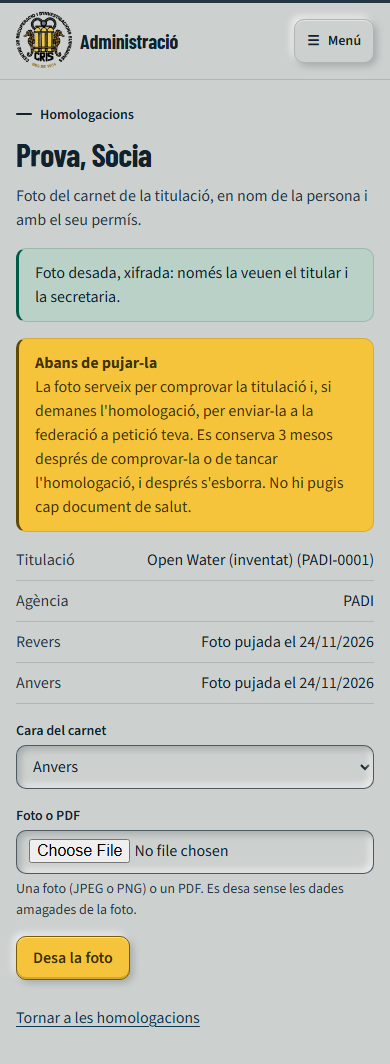
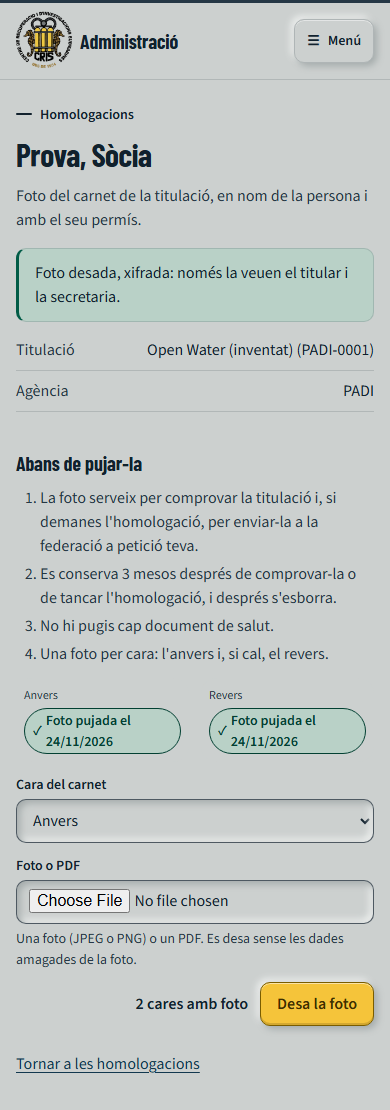
Diari: T-M02-42b, Expositor i captures noves

diff --git a/docs/diari-de-construccio/T-M02-42b.md b/docs/diari-de-construccio/T-M02-42b.md
@@ -20,7 +20,7 @@
 ## Comprovació de §15.5 del sistema de disseny
 - Cap animació nova. «Esborra-la» és un `boto boto-petit` del sistema; la mida mínima de toc és la del component.
 - Un sol botó principal («Desa la foto»), títol concret («Foto del carnet» o el nom de la persona), cap insígnia decorativa, dates en format català, cap `style=` ni cap valor fora de `tokens.css`.
-- Cap recurs del mapa no hi és assignat: anotat a `docs/estat/DX.md` per a DISSENY.
+- El mapa no hi assigna cap recurs: s'hi reutilitza **Expositor** (regles a la vista, una cel·la per cara i el recompte), sense la zona d'arrossegament ni la vista prèvia, que queden anotades a `docs/estat/DX.md` per a DISSENY.
 
 ## Captures
 ![Foto del carnet a l'àrea de socis, a 1280 px](captures/2026-11-24_1304_T-M02-42b_foto-carnet-soci-1280.png)
